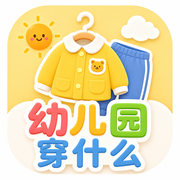
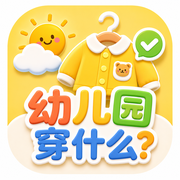
更新 App 图标（新版设计）；SW 缓存升级 v3

diff --git a/sw.js b/sw.js
@@ -1,5 +1,5 @@
 // 幼儿园穿什么 · Service Worker
-const CACHE = 'kg-v2';
+const CACHE = 'kg-v3';
 const ASSETS = [
   './', './index.html', './manifest.webmanifest',
   './icon-192.png', './icon-512.png', './icon-180.png',
